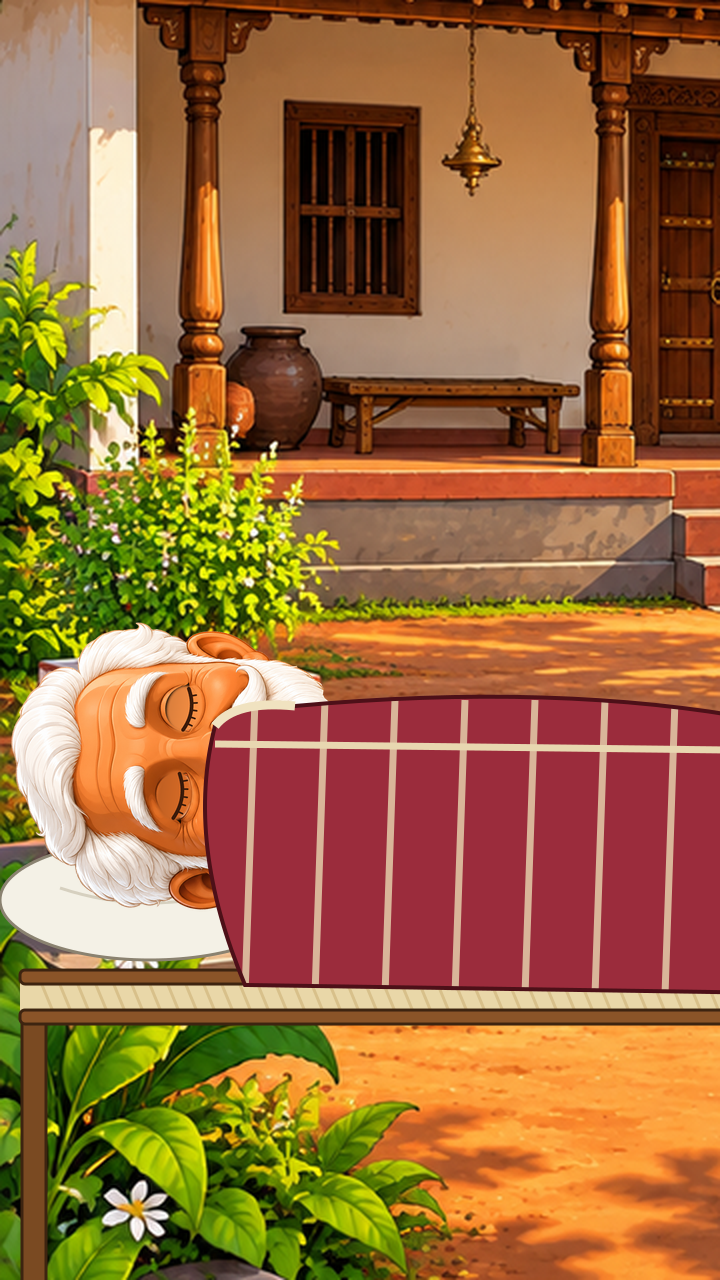
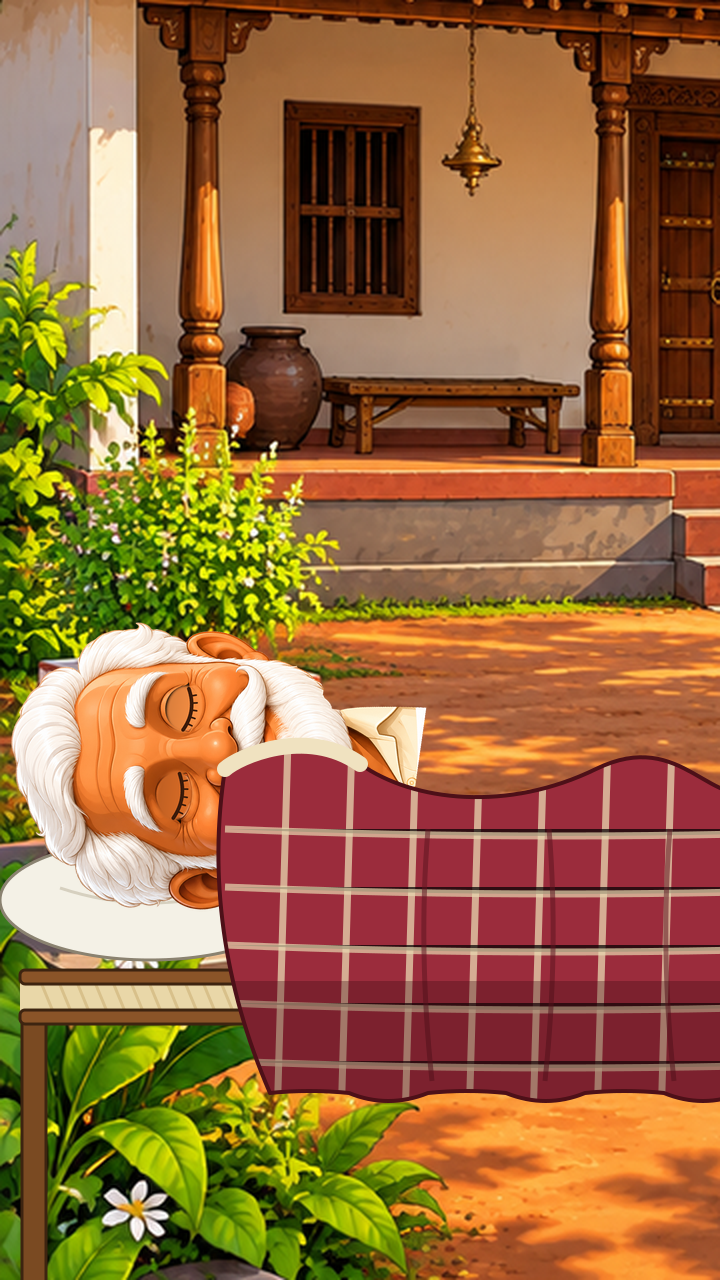
Day 3 v2 frames: draped blanket with folds and hem, real seated body for waking up, unattached-arm frame dropped; rebuild script
Claude-Session: https://claude.ai/code/session_01SPjnmCMQrdnZQUqxEQeumd

Changed region(s): [[0.275, 0.5312, 1.0, 0.875]]

diff --git a/series/03-thatha-days/day03/final/make_frames.py b/series/03-thatha-days/day03/final/make_frames.py
@@ -96,19 +96,48 @@ def pillow(x, y, w=150, h=62):
             f'<path d="M {x - w * 0.3},{y - h * 0.1} q {w * 0.3},{h * 0.25} {w * 0.6},0" stroke="#d6d0bf" stroke-width="3" fill="none"/>')
 
 
-def blanket(x0, x1, top, base, folded=False):
-    """Checked cotton blanket (maroon/cream) over him on the cot: a long mound from x0 to x1."""
+_BL = [0]
+
+
+def blanket(x0, x1, top, base, folded=False, flat=False):
+    """Checked cotton blanket (maroon with cream checks) draped over him on the cot: the top follows the body
+    (shoulder, hip, knees, feet; low and even when "flat" = over his legs while he sits), it hangs over the cot
+    edge with a wavy hem and soft folds, and the cream lining is turned down at his chin."""
     if folded:
         return (f'<rect x="{x0}" y="{base - 46}" width="{x1 - x0}" height="40" rx="10" fill="#9b2c3c" stroke="#4d1018" stroke-width="3"/>'
                 f'<rect x="{x0}" y="{base - 30}" width="{x1 - x0}" height="8" fill="#e8d7b0"/>')
-    mound = (f'M {x0 + 30},{base} Q {x0 - 30},{(top + base) / 2} {x0},{top + 26} Q {x0 + 20},{top} {x0 + 80},{top + 6} Q {(x0 + x1) / 2},{top - 18} '
-             f'{x1 - 140},{top + 20} Q {x1 - 60},{top + 4} {x1 - 20},{top + 40} L {x1 + 10},{base + 10} Z')
-    stripes = "".join(f'<path d="M {sx},{top} L {sx - 10},{base + 10}" stroke="#e8d7b0" stroke-width="7" opacity="0.8"/>'
-                      for sx in range(int(x0) + 40, int(x1), 70))
-    return (f'<clipPath id="bl"><path d="{mound}"/></clipPath><path d="{mound}" fill="#9b2c3c"/>'
-            f'<g clip-path="url(#bl)">{stripes}<path d="M {x0},{top + 44} L {x1},{top + 52}" stroke="#e8d7b0" stroke-width="7"/></g>'
-            f'<path d="{mound}" fill="none" stroke="#4d1018" stroke-width="4"/>'
-            f'<path d="M {x0},{top + 26} Q {x0 + 20},{top} {x0 + 80},{top + 6}" stroke="#f0e2c0" stroke-width="9" fill="none"/>')
+    _BL[0] += 1
+    cid = f"bl{_BL[0]}"
+    w = x1 - x0
+    hh = (base - top)
+    amp = 0.25 if flat else 1.0
+    def P(fx, fy):
+        return f"{x0 + w * fx:.0f},{top + hh * fy:.0f}"
+    hem = base + hh * 0.45
+    ys = [top + hh * (0.55 - 0.45 * amp)]
+    path = (f"M {x0 + 45:.0f},{hem:.0f} Q {x0 - 25:.0f},{(hem + ys[0]) / 2:.0f} {x0:.0f},{ys[0]:.0f} "
+            f"C {P(0.02, 0.05 + 0.3 * (1 - amp))} {P(0.12, -0.08 * amp + 0.2 * (1 - amp))} {P(0.2, 0.08 * amp + 0.25 * (1 - amp))} "
+            f"S {P(0.42, 0.28 * amp + 0.2 * (1 - amp))} {P(0.55, 0.1 * amp + 0.22 * (1 - amp))} "
+            f"S {P(0.72, 0.3 * amp + 0.2 * (1 - amp))} {P(0.8, 0.18 * amp + 0.22 * (1 - amp))} "
+            f"S {P(0.95, 0.25 * amp + 0.2 * (1 - amp))} {P(1.0, 0.45)} L {x1:.0f},{hem:.0f} ")
+    k = 0
+    xs = np.linspace(x1, x0 + 45, 9)
+    for xa, xb in zip(xs[:-1], xs[1:]):                         # wavy hem
+        k += 1
+        path += f"Q {(xa + xb) / 2:.0f},{hem + (16 if k % 2 else -4):.0f} {xb:.0f},{hem:.0f} "
+    path += "Z"
+    checks = "".join(f'<path d="M {x0 + i * 64:.0f},{top - 40} L {x0 + i * 64 - 12:.0f},{hem + 30:.0f}" stroke="#e8d7b0" stroke-width="7" opacity="0.75"/>'
+                     for i in range(1, int(w / 64) + 1))
+    checks += "".join(f'<path d="M {x0},{y:.0f} Q {x0 + w / 2},{y + 14:.0f} {x1},{y:.0f}" stroke="#e8d7b0" stroke-width="7" opacity="0.7"/>'
+                      for y in np.arange(top + hh * 0.35, hem, 58))
+    folds = "".join(f'<path d="M {x0 + w * fx:.0f},{top + hh * 0.35:.0f} q {-10 + 20 * (i % 2)},{hh * 0.5:.0f} {4 - 8 * (i % 2)},{hem - top - hh * 0.4:.0f}" '
+                    f'stroke="#5e1420" stroke-width="5" fill="none" opacity="0.55"/>' for i, fx in enumerate((0.3, 0.48, 0.66, 0.88)))
+    shade = f'<rect x="{x0 - 20}" y="{base - 4:.0f}" width="{w + 40}" height="{hem - base + 40:.0f}" fill="#3a0a12" fill-opacity="0.32"/>'
+    lining = (f'<path d="M {x0:.0f},{ys[0]:.0f} C {P(0.02, 0.05 + 0.3 * (1 - amp))} {P(0.12, -0.08 * amp + 0.2 * (1 - amp))} {P(0.2, 0.08 * amp + 0.25 * (1 - amp))}" '
+              f'stroke="#f0e2c0" stroke-width="16" fill="none" stroke-linecap="round"/>')
+    return (f'<clipPath id="{cid}"><path d="{path}"/></clipPath><path d="{path}" fill="#9b2c3c"/>'
+            f'<g clip-path="url(#{cid})">{checks}{folds}{shade}</g>'
+            f'<path d="{path}" fill="none" stroke="#4d1018" stroke-width="4" stroke-linejoin="round"/>{lining}')
 
 
 def stool(x, base, w=90, h=80):
@@ -171,7 +200,7 @@ def main():
         out.alpha_composite(svg_layer(pillow(150, 900, 300, 120)))
         hd = lying(which, 0.33)
         out.alpha_composite(hd, (-10, 905 - hd.height + 40))
-        out.alpha_composite(svg_layer(blanket(215, 900, 700, 985)))
+        out.alpha_composite(svg_layer(blanket(225, 900, 745, 985)))
         out.convert("RGB").save(FR / f"{name}.png")
         print("saved", name)
 
@@ -190,14 +219,27 @@ def main():
     out.alpha_composite(p2, (700 - p2.width, 1250 - 760))
     out.convert("RGB").save(FR / "f_dpoint.png")
 
-    # morning, sitting up in bed (close courtyard background)
+    # morning, sitting up in bed: the real seated Thatha (Day 1 thinnai frame, bowl removed; hand at his cheek =
+    # "Aiyayo!") cut at the waist, sitting on the kattil with the blanket over his legs
+    sit = Image.open(ROOT / "series/03-thatha-days/day01/final/frames/lama_clean.png").convert("RGB")
+    sa = np.array(remove(sit, session=seg, only_mask=True)).astype(np.float32)
+    sa = np.clip((sa - 90) * 2.6, 0, 255).astype(np.uint8)
+    srgb = np.array(sit)
+    hsv = cv2.cvtColor(srgb, cv2.COLOR_RGB2HSV).astype(int)
+    yy, xx = np.mgrid[0:H, 0:W]
+    stick = (xx < 150) & (hsv[..., 1] > 80) & (hsv[..., 2] < 200)
+    sa[stick] = 0
+    body = Image.fromarray(np.dstack([srgb, sa])).crop((60, 260, 700, 830))
+    SK, BX, BY = 1.4, -60, 235
+    body = body.resize((round(body.width * SK), round(body.height * SK)), Image.LANCZOS)
     bgm = grade(bg, "morning").convert("RGBA")
-    bust = head_cut.resize((round(head_cut.width * 0.5), round(head_cut.height * 0.5)), Image.LANCZOS)
     out = bgm.copy()
-    out.alpha_composite(svg_layer(kattil(400, 1060, 900, 240) + pillow(130, 900, 240, 100)))
-    out.alpha_composite(bust, (360 - bust.width // 2, 1000 - bust.height))
-    out.alpha_composite(svg_layer(blanket(80, 900, 930, 1045)))
+    out.alpha_composite(svg_layer(kattil(400, 1060, 900, 240) + pillow(95, 905, 220, 96)))
+    out.alpha_composite(body, (BX, BY))
+    out.alpha_composite(svg_layer(blanket(-40, 900, 930, 1045, flat=True)))
     out.convert("RGB").save(FR / "f_dup.png")
+    import json
+    json.dump({"crop": [60, 260], "scale": SK, "off": [BX, BY]}, open(FR / "f_dup_place.json", "w"))
 
     # pointing at the rooster (the pointing pose cut at the waist, sitting in bed)
     out = bgm.copy()
@@ -207,7 +249,7 @@ def main():
     sc = 760 / pc.height
     pc = pc.resize((round(pc.width * sc), 760), Image.LANCZOS)
     out.alpha_composite(pc, (740 - pc.width, 980 - pc.height))
-    out.alpha_composite(svg_layer(blanket(-40, 900, 900, 1045)))
+    out.alpha_composite(svg_layer(blanket(-40, 900, 900, 1045, flat=True)))
     out.convert("RGB").save(FR / "f_dpointr.png")
 
     # morning, standing by the kattil, blanket folded
